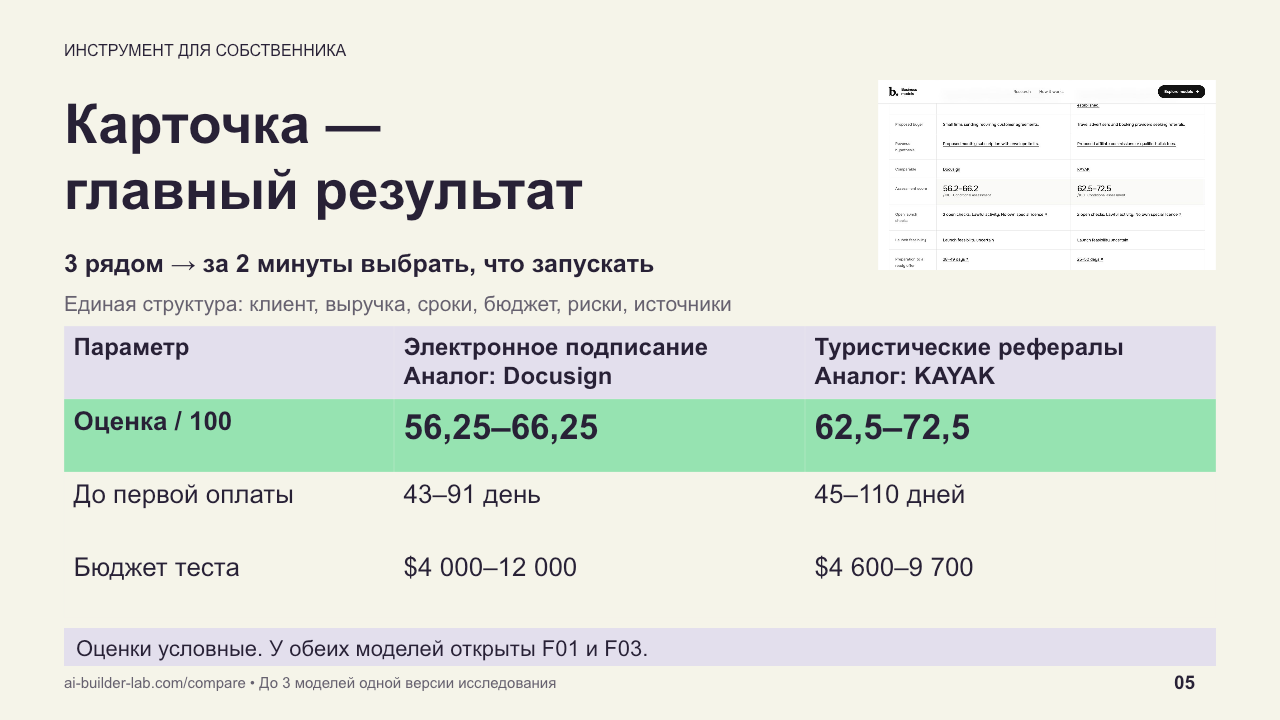
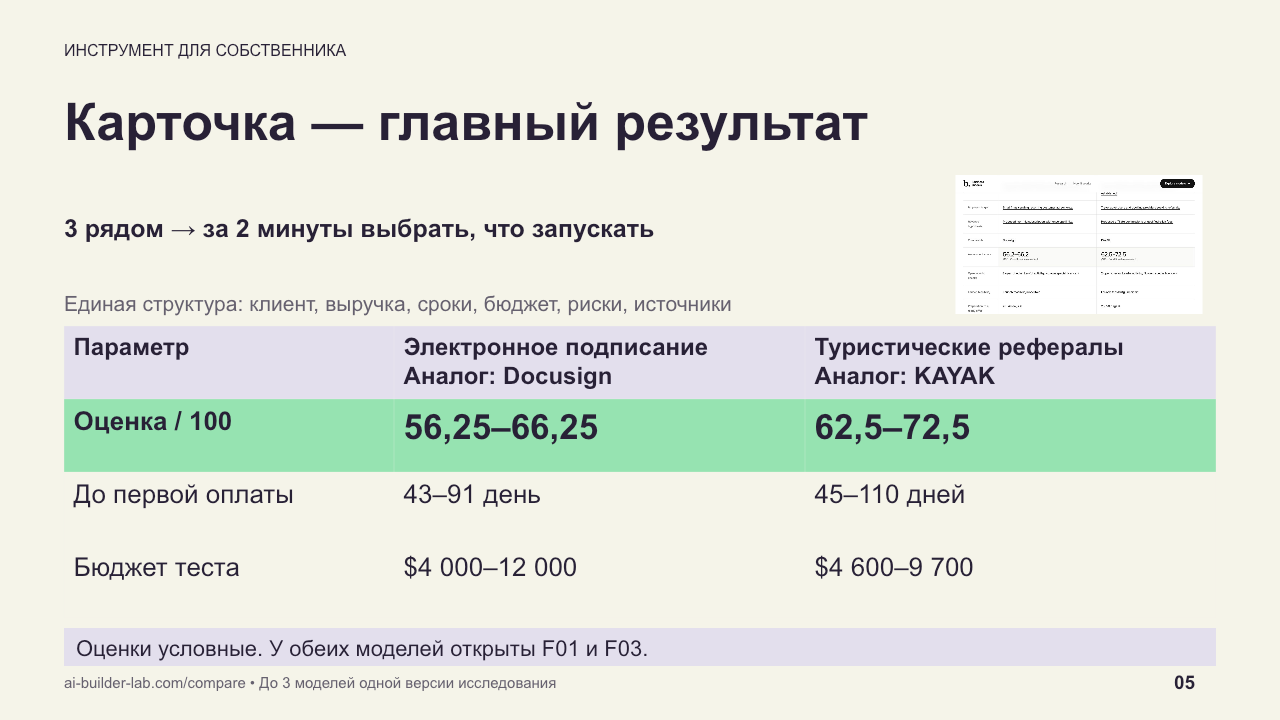
design: refine card heading and add closing resource links

diff --git a/presentation/README.md b/presentation/README.md
@@ -2,7 +2,7 @@
 
 [Скачать презентацию PPTX](AI-Builder-CEO.pptx) · [Текст выступления](speaker-notes.md) · [Открыть сайт](https://ai-builder-lab.com/)
 
-Семь слайдов для CEO, формат 16:9. План выступления — 2 минуты 55 секунд: 333 слова. Фактическую длительность нужно проверить репетицией; видео ещё предстоит записать. Заметки докладчика включены в PPTX и продублированы отдельно. Таблица и обе диаграммы редактируются в PowerPoint, данные диаграмм встроены в файл.
+Семь слайдов для CEO, формат 16:9. План выступления — 2 минуты 55 секунд: 344 слова. Фактическую длительность нужно проверить репетицией; видео ещё предстоит записать. Заметки докладчика включены в PPTX и продублированы отдельно. Таблица и обе диаграммы редактируются в PowerPoint, данные диаграмм встроены в файл.
 
 ## Оформление
 
@@ -14,7 +14,7 @@
 - Слайд 4: решения при сбое LLM и противоречии в источниках.
 - Слайд 5: карточка как главный результат, единая структура, сравнение трёх моделей и выбор собственника.
 - Слайд 6: веса и причина приоритета клиента и спроса.
-- Слайд 7: честные ограничения, платный пилот, полная версия и пересмотр ТЗ.
+- Слайд 7: честные ограничения, платный пилот, полная версия, пересмотр ТЗ и восемь кликабельных ссылок.
 
 [Короткий файл: пять решений, альтернативы и актуальные ограничения](decisions.md). Комментарии для записи включены в заметки каждого слайда и в отдельный сценарий.
 

diff --git a/presentation/speaker-notes.md b/presentation/speaker-notes.md
@@ -26,4 +26,4 @@
 
 ## 7. Ограничения и следующий шаг (2:24–2:55)
 
-Честные ограничения: пятнадцать моделей требуют проверки, юридические условия открыты, запуск исследования ручной, платного пилота ещё нет. Следующий шаг — закрыть условия одной модели и получить реального платящего клиента. В полной версии добавлю кабинет владельца и историю экспериментов. Из задания убрал бы точную вероятность без статистики, а обязательность аналога от трёхсот миллионов предложил бы пересмотреть.
+Честные ограничения: пятнадцать моделей требуют проверки, юридические условия открыты, кнопки запуска на сайте пока нет, платного пилота ещё нет. Оператор запускает процесс на сервере, дальше работают агенты. Следующий шаг — закрыть условия одной модели и получить реального платящего клиента. В полной версии добавлю кабинет владельца и историю экспериментов. Из задания убрал бы точную вероятность без статистики, а обязательность аналога от трёхсот миллионов предложил бы пересмотреть.
